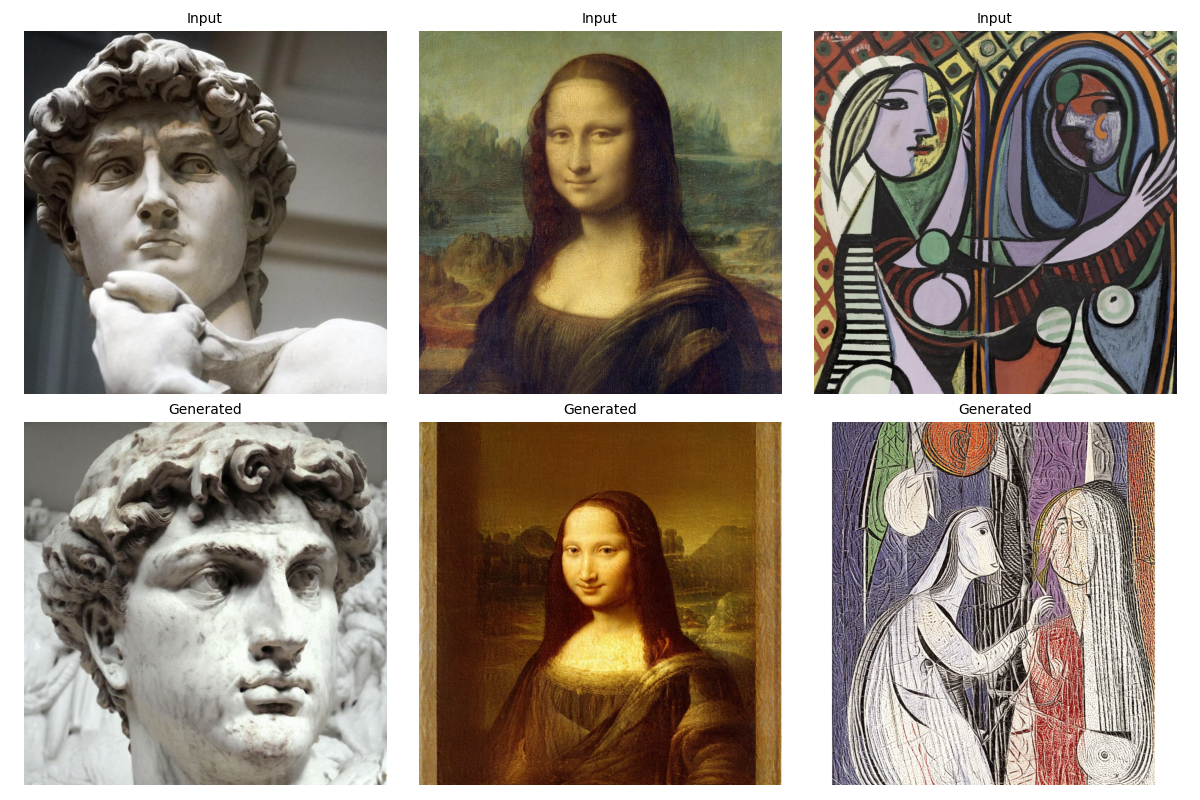
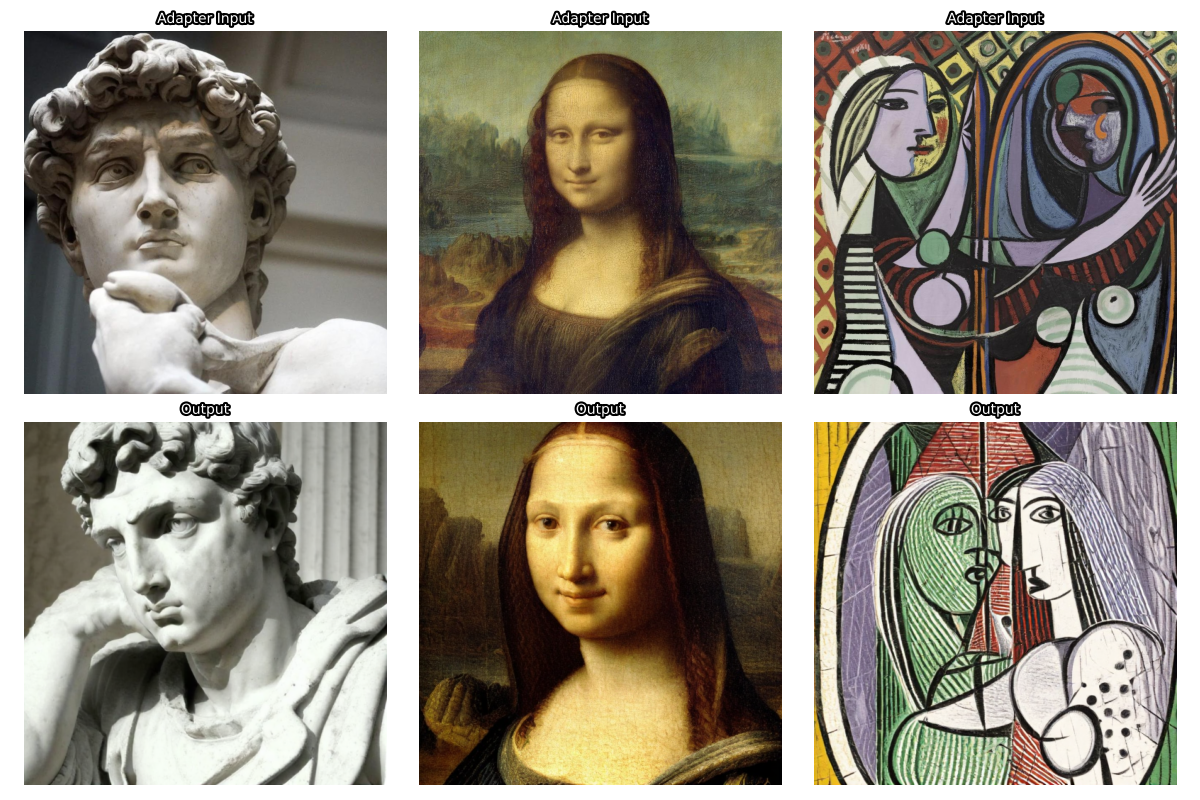
improving eval image gen loop, improving example files, adding example images

diff --git a/train_libre_flux.py b/train_libre_flux.py
@@ -7,6 +7,8 @@ import itertools
 import time
 import copy
 
+import matplotlib.pyplot as plt
+from matplotlib import patheffects as pe
 
 import torch
 import torch.nn.functional as F
@@ -41,8 +43,8 @@ from models import encode_prompt_helper
 
 os.environ["TOKENIZERS_PARALLELISM"] = "false"
 
-import matplotlib.pyplot as plt
-def gen_validation_images(pipe, test_dataloader, save_dir, iter):
+
+def gen_validation_images(pipe, test_dataloader, save_dir, iter, res):
     image_list = []
     input_image_list = []
 
@@ -56,8 +58,11 @@ def gen_validation_images(pipe, test_dataloader, save_dir, iter):
             prompt=batch['text'][0],
             negative_prompt="blurry",
             return_dict=False,
+            num_inference_steps=75, # Add control for step count
             ip_adapter_image=pixel_values, 
-            generator = torch.Generator(device="cuda").manual_seed(42)
+            height=res,
+            width=res, 
+            generator = torch.Generator(device="cuda").manual_seed(5)
         )
         
         image_list.append(images[0][0])
@@ -67,22 +72,27 @@ def gen_validation_images(pipe, test_dataloader, save_dir, iter):
     cols = n_images
     
     fig, axes = plt.subplots(2, cols, figsize=(cols*4, 8))
+    fig.patch.set_alpha(0)  # Make figure background transparent
     
     for idx in range(n_images):
         # Top row: input images
         axes[0, idx].imshow(input_image_list[idx])
         axes[0, idx].axis('off')
-        axes[0, idx].set_title('Input', fontsize=10)
+        title = axes[0, idx].set_title('Adapter Input', fontsize=10, color='white')
+        title.set_path_effects([pe.withStroke(linewidth=3, foreground='black')])
+        axes[0, idx].set_facecolor('none')  # Transparent subplot background
         
         # Bottom row: generated images
         axes[1, idx].imshow(image_list[idx])
         axes[1, idx].axis('off')
-        axes[1, idx].set_title('Generated', fontsize=10)
+        title = axes[1, idx].set_title('Output', fontsize=10, color='white')
+        title.set_path_effects([pe.withStroke(linewidth=3, foreground='black')])
+        axes[1, idx].set_facecolor('none')  # Transparent subplot background
     
     plt.tight_layout()
-    plt.savefig(f"{save_dir}/val.{iter:07d}.png")
+    plt.savefig(f"{save_dir}/val.{iter:07d}.png", transparent=True)
     plt.close()
-    
+
     pipe.ip_adapter.train()
 
 # Dataset
@@ -746,12 +756,17 @@ def main():
                 #save_path = os.path.join(args.output_dir, f"checkpoint-{global_step}")
                 #accelerator.save_state(save_path)
                 unwrapped_model = accelerator.unwrap_model(ip_adapter)
-                save_path = os.path.join(args.output_dir, f"checkpoint-{global_step:07d}.pt")
+                save_path = os.path.join(args.output_dir,
+                                         f"checkpoint-{global_step:07d}.pt")
                 unwrapped_model.save_pretrained(save_path)
                            
             if global_step % args.val_steps == 0:
               with torch.no_grad():
-                gen_validation_images(pipeline,val_dataloader,args.output_dir, global_step)
+                gen_validation_images(pipeline,
+                                      val_dataloader,
+                                      args.output_dir,
+                                      global_step,
+                                      args.resolution)
 
             begin = time.perf_counter()
                 
